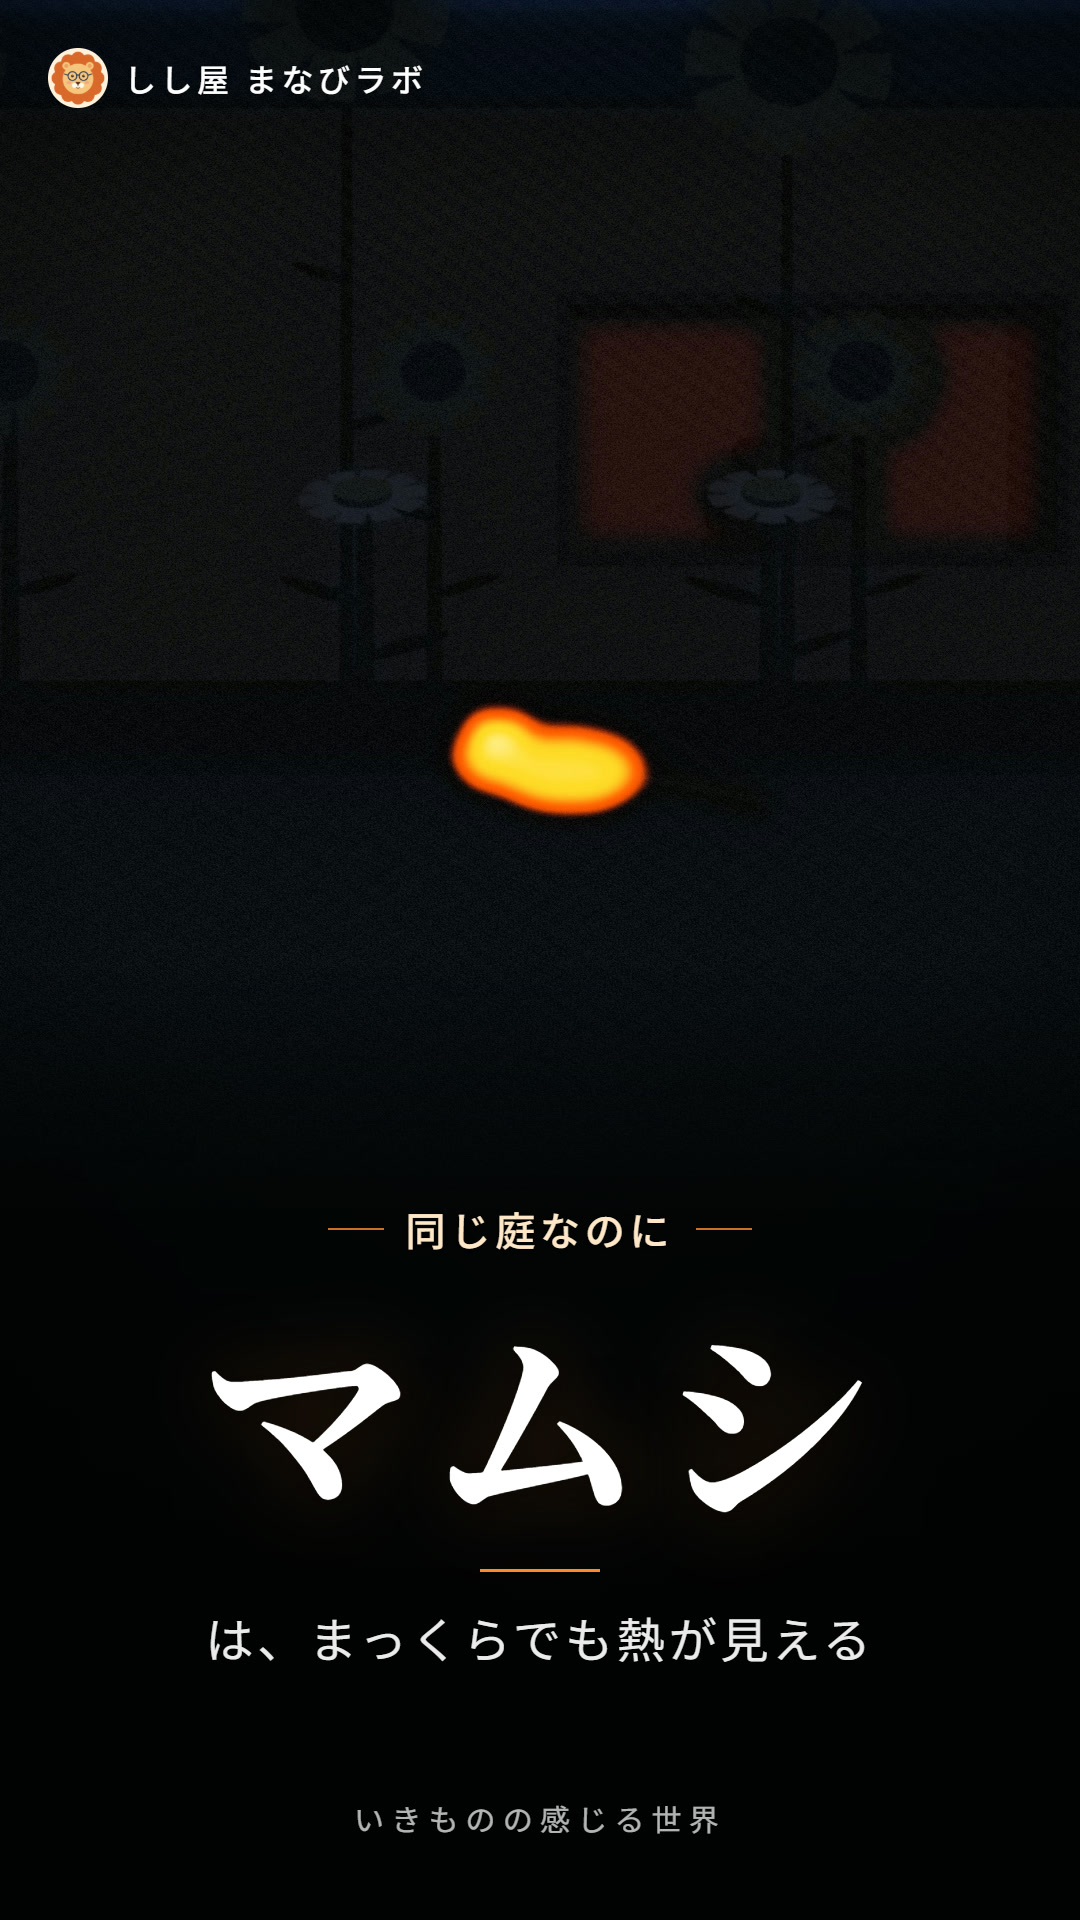
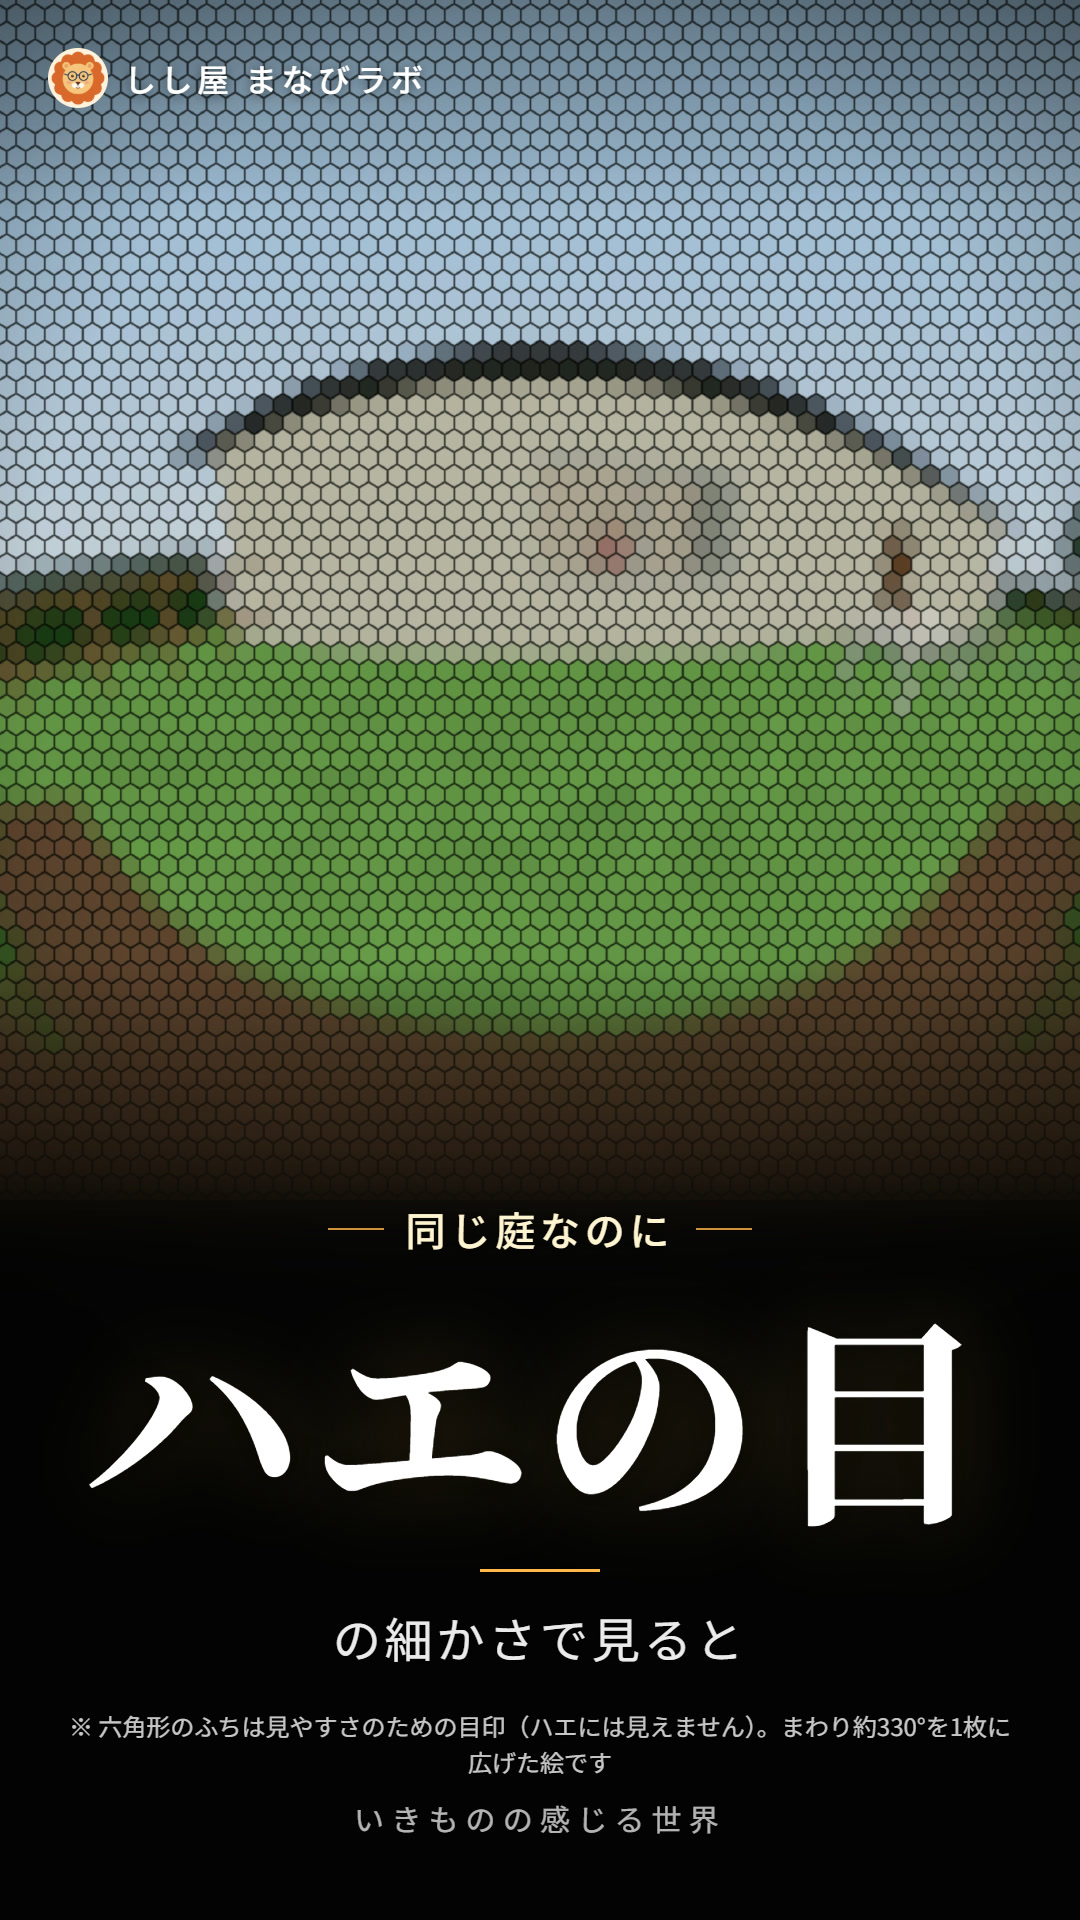
promo: いきものの感じる世界のサムネイルをマムシからハエの目に戻した（ショート・説明動画とも 421b3f7 の絵。ユーザーの指示: ショートにハエの場面はないが、説明動画にはあるので強行）。YouTube への差しかえはまだ

diff --git a/_dev/promo/short-thumbs.js b/_dev/promo/short-thumbs.js
@@ -7,8 +7,10 @@ window.SHORT_THUMBS = {
   'evolution':     { name: 'ヒトへの46億年', t: 33, focus: [0.5, 0.33], zoom: 1.5, kicker: '溶けた地球 → 恐竜 → 人類', big: '46億年', sub: 'を40秒で', c1: '#fff3a0', c2: '#ffb21e' },
   'body-dive':     { name: '体内ダイブ', t: 3.4, focus: [0.5, 0.3], zoom: 1.15, kicker: 'カプセル内視鏡になって', big: '口から肛門', sub: 'まで旅してみた', c1: '#ffffff', c2: '#ffd36b' },
   'black-hole':    { name: 'ブラックホールの見え方', t: 20, focus: [0.5, 0.36], zoom: 1.35, kicker: '映画では省かれた、本当の姿', big: 'ブラックホール', sub: '本当は左が明るい', c1: '#fff6d8', c2: '#ffb347' },
-  // 2026-10-16: カラスの目（人の目とほぼ同じ絵で目立たなかった）→ マムシ（ショートの 12.5〜19 秒と同じ場面）。アプリで「夜・まっくら・ネズミ」を 2160×3840 で撮った絵（stills/）
-  'animal-senses': { name: 'いきものの感じる世界', t: 15, still: 'stills/animal-senses-snake.jpg', focus: [0.48, 0.45], zoom: 1.25, wzoom: 0.8, wfocus: [0.48, 0.47], kicker: '同じ庭なのに', big: 'マムシ', sub: 'は、まっくらでも熱が見える', c1: '#ffe6c8', c2: '#ff8a2e' },
+  // 2026-10-16（10-19 にユーザーの指示でマムシから戻した。ショートにハエの場面はないが、説明動画にはある）: カラスの目（人の目とほぼ同じ絵で目立たなかった）→ ハエの目。ショートにハエの場面はないので、アプリの絵を stills/ に（4K で撮って真ん中を縦に切り出し）
+  //   ハエ・昼・ふち あり、家の近く（pos [-4,1.3,-1.6]・yaw 0・pitch -0.15。花だんが U の字に曲がる）を 3840×2160 で撮り、真ん中 1944×2160 を 2160×2400 にして下を暗く。
+  //   本当のことだけ: ふち（ハエには見えない目印）と全周を1枚に広げた曲がりは、note の ※ でことわる（アプリの凡例にも同じ注）。色は人の色のままなので、言葉は「細かさ」だけ
+  'animal-senses': { name: 'いきものの感じる世界', t: 8, still: 'stills/animal-senses-fly.jpg', focus: [0.5, 0.3], zoom: 1, wzoom: 0.5, wfocus: [0.5, 0.316], kicker: '同じ庭なのに', big: 'ハエの目', sub: 'の細かさで見ると', note: '※ 六角形のふちは見やすさのための目印（ハエには見えません）。まわり約330°を1枚に広げた絵です', c1: '#fff3d0', c2: '#ffb84a' },
   'quantum':       { name: '量子の実験室', t: 17, focus: [0.5, 0.3], zoom: 1.6, kicker: '電子を1個ずつ飛ばすと', big: 'しま模様', sub: 'が現れる ― 二重スリット', c1: '#fff3a0', c2: '#ffc21e' },
   'metamorphosis': { name: 'さなぎの中で', t: 13, focus: [0.5, 0.36], zoom: 1.7, kicker: 'イモムシがガになるまで18日', big: 'さなぎの中', sub: 'はどうなってる？', c1: '#e0fbff', c2: '#43d3ff' },
   'immune-battle': { name: '免疫のたたかい', t: 21, focus: [0.5, 0.35], zoom: 1.6, kicker: 'インフルエンザのウイルスは3日目に', big: '数十億個', sub: 'それでも8日目ごろ消える', c1: '#ffe0ea', c2: '#ff5c8a' },
